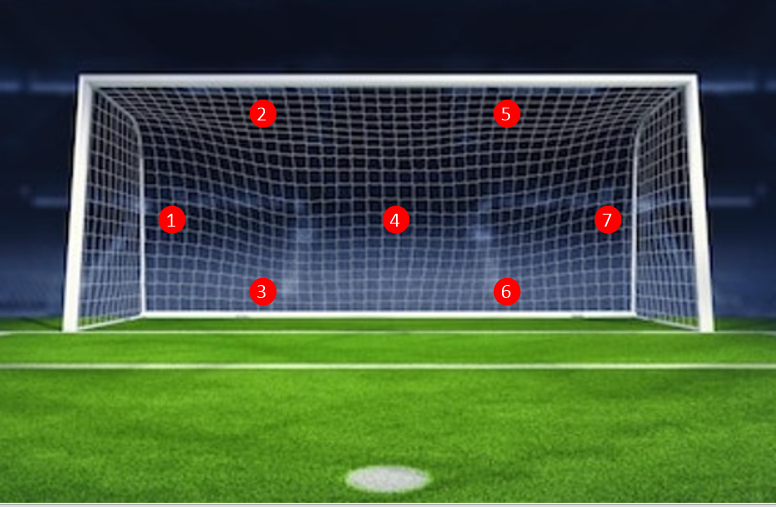
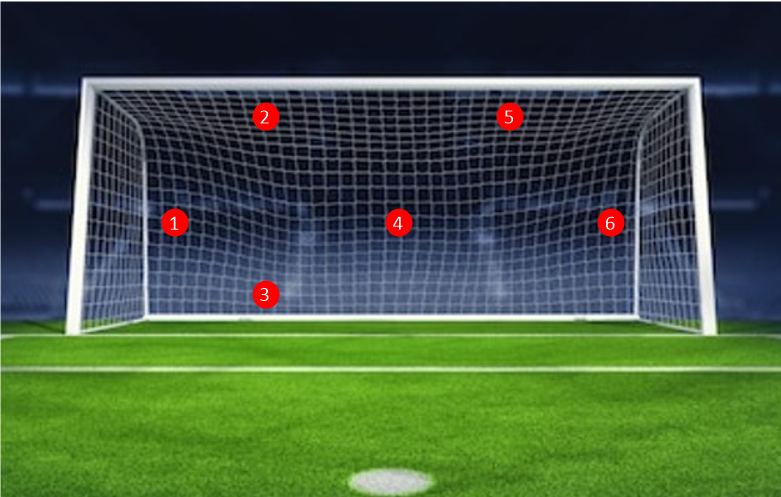
점수창 추가

diff --git a/src/views/Game.vue b/src/views/Game.vue
@@ -1,27 +1,14 @@
 <template>
   <v-container class="container">
+<div class="card" style="width: 30rem; margin-top:50px;">
+  <div class="card-body">
+    <h1 class="card-text">점수</h1>
+    <p style="margin-left:10px;margin-top:20px;">{{score}}</p>
+  </div>
+</div>
     <img class="mouse-img" id="goal" :src="require('@/assets/goal.png')" />
     <v-row class="text-center" style="margin-top: 50px">
       <v-col class="mb-4">
-        <h1 class="display-2 font-weight-bold mb-3"></h1>
-        <!-- <div
-          class="btn-group"
-          role="group"
-          style="width:170px;height:100px;"
-          aria-label="Basic checkbox toggle button group"
-          v-for="(item, idx) in numList"
-        > -->
-        <div style="width:170px;height:100px;" v-for="(item, idx) in numList" class="btn-group" role="group" aria-label="Basic checkbox toggle button group">
-          <!-- <input
-            type="checkbox"
-            class="btn-check"
-            v-bind:id="`btn${item}`"
-            autocomplete="off"
-          /> -->
-           <button style="font-size:50px;" v-bind:id="`btn${item}`" type="button" class="btn btn-outline-primary">{{item}}</button>
-          <!-- <label style="font-size:50px;" class="btn btn-outline-primary" :for="`btn${item}`">{{item}}</label> -->
-        </div>
-        
  <div>
     <v-btn-toggle
       v-model="toggle"
@@ -29,13 +16,11 @@
       variant="outlined"
       style="height:150px;" 
     >
-        <v-btn  style="font-size:50px;width:170px;" v-bind:id="`btn${item}`" v-for="(item, idx) in numList" >{{item}}</v-btn>
+        <v-btn @click="goal(item)" style="font-size:50px;width:200px;" v-bind:id="`btn${item}`" v-for="(item, idx) in numList" >{{item}}</v-btn>
       
   
     </v-btn-toggle>
   </div>
-
-
         <div class="buttons">
           <button @click="move" class="btn-hover color-9">닉네임 등록</button>
         </div>
@@ -51,7 +36,8 @@ export default {
   mounted() {},
   data: () => ({
     name: "",
-    numList: [1,2,3,4,5,6,7],
+    score:0,
+    numList: [1,2,3,4,5,6],
     toggle:null,
   }),
   methods: {
@@ -59,23 +45,17 @@ export default {
       //닉네임 입력 화면으로 이동
       this.$router.push("/intro");
     },
+    goal(item){
+      console.log(item)
+    }
   },
 };
 </script>
 
 <style scoped>
-/* .mouse-img { */
-
-/* width: 100px; */
-/* height: 100px; */
-/* margin: 0 auto; */
-
-/* background-image: url("@/assets/goal.png"); */
-/* background-repeat: no-repeat; */
-/* background-position: center center; */
-/* background-size: 1500px; */
-/* background-size: cover;  */
-/* } */
+.buttons{
+  margin-top: 100px;
+}
 .soccer {
   margin-top: 340px;
   margin-right: 870px;

diff --git a/src/components/HelloWorld.vue b/src/components/HelloWorld.vue
@@ -14,7 +14,7 @@
             clearable
             ref="name"
             required
-            maxlength="20"
+            maxlength="15"
             color="blue darken-2"
             v-model="name"
             label=""
